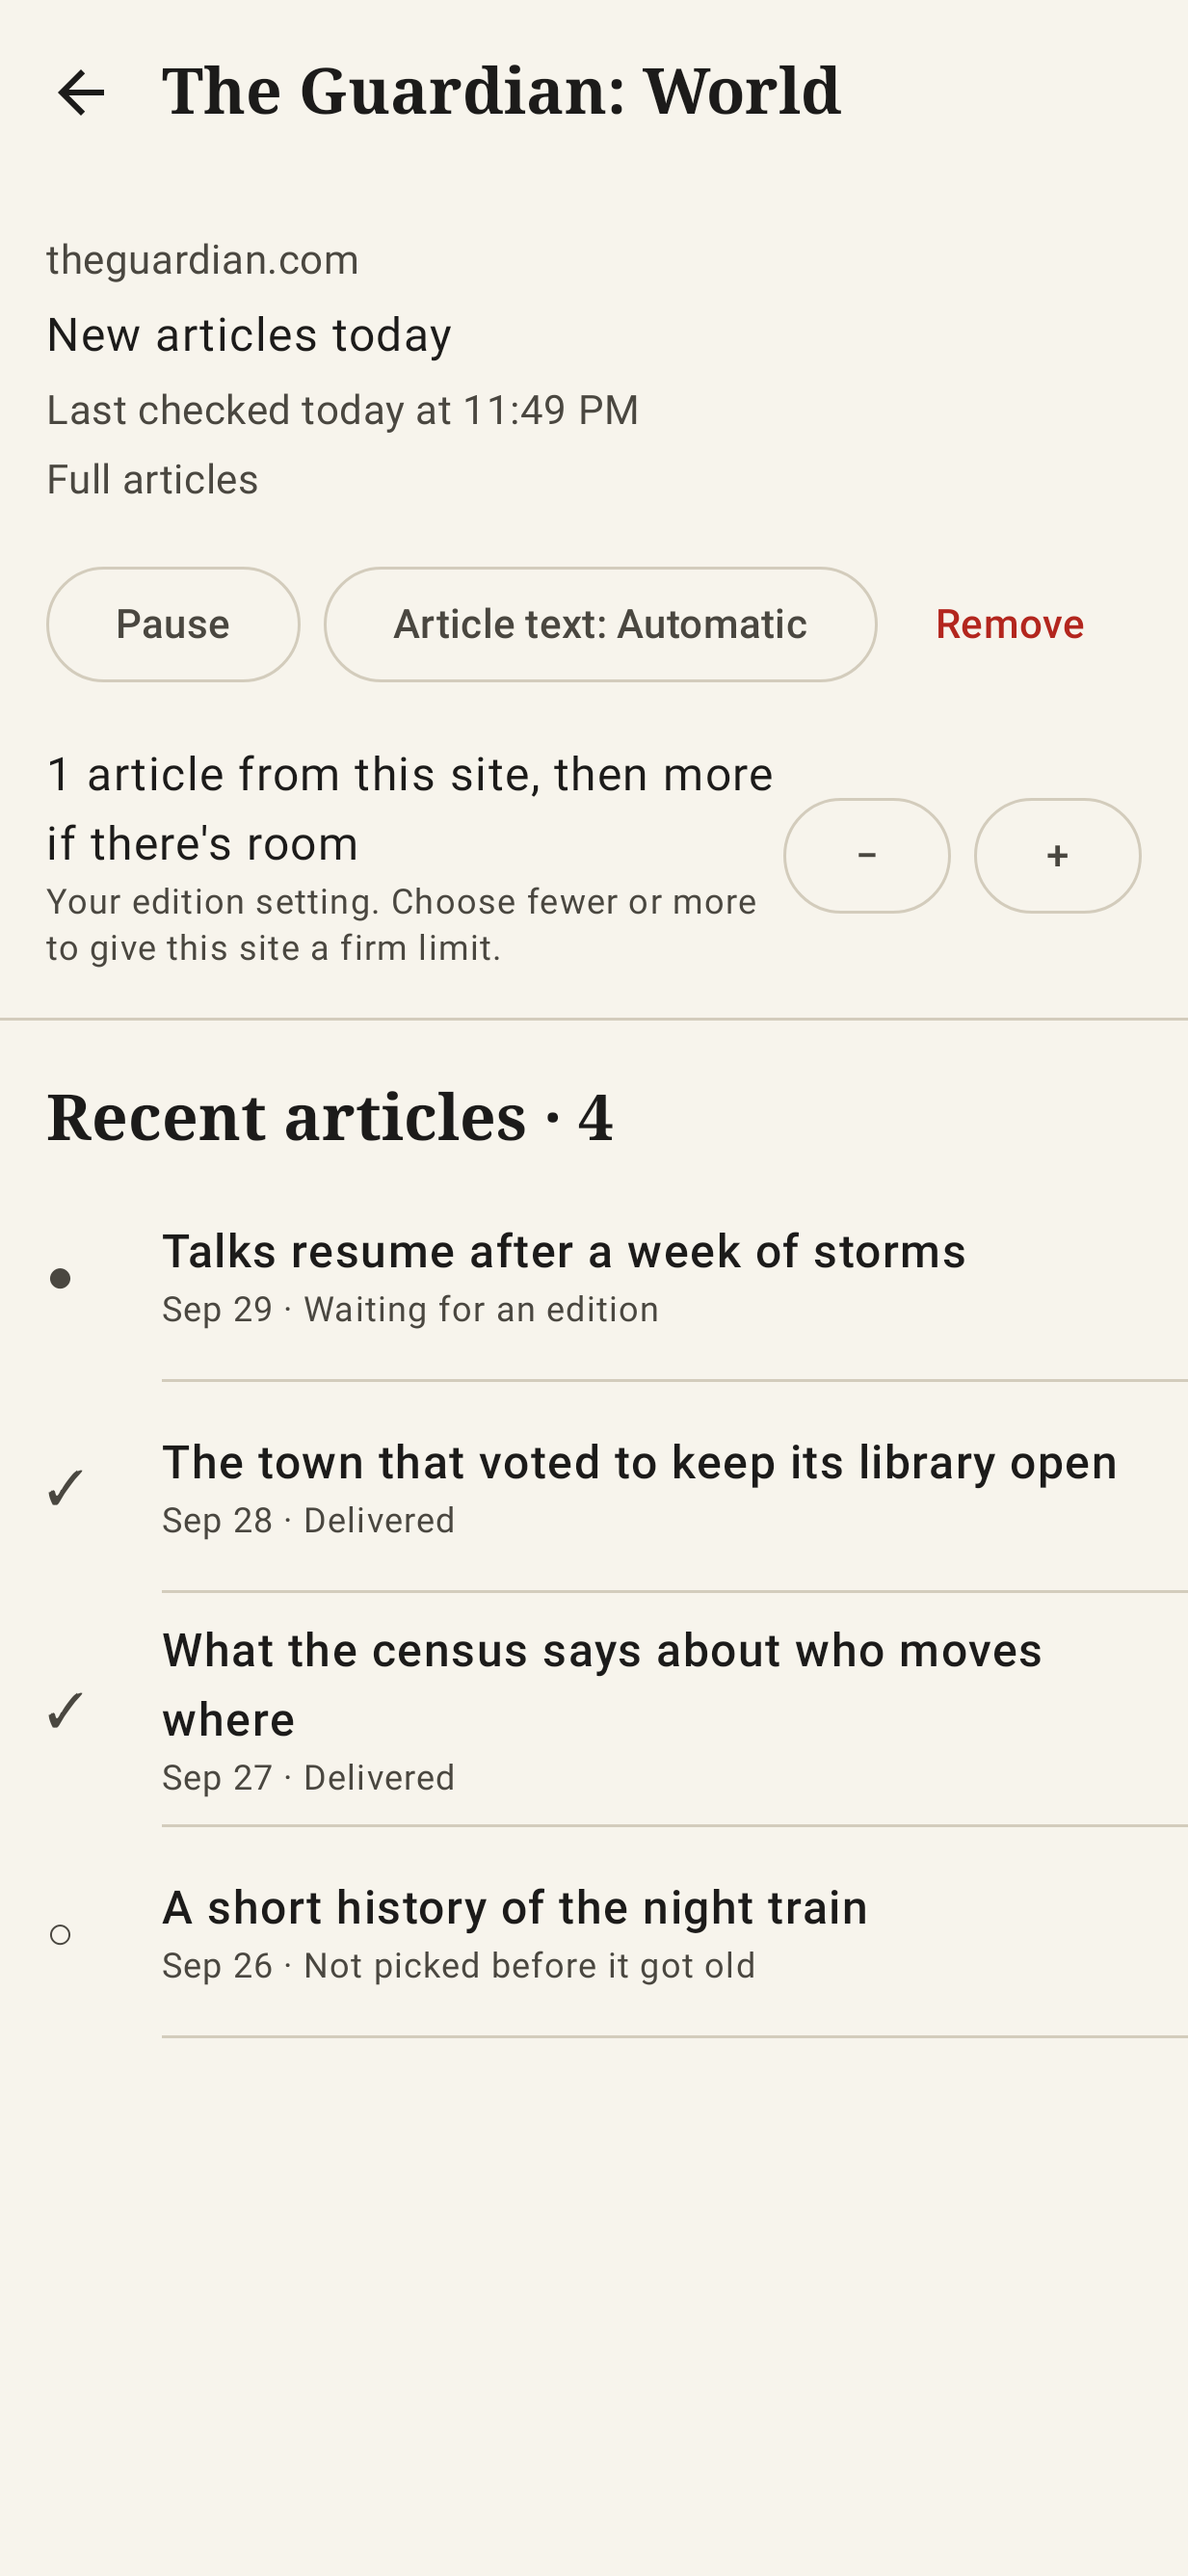
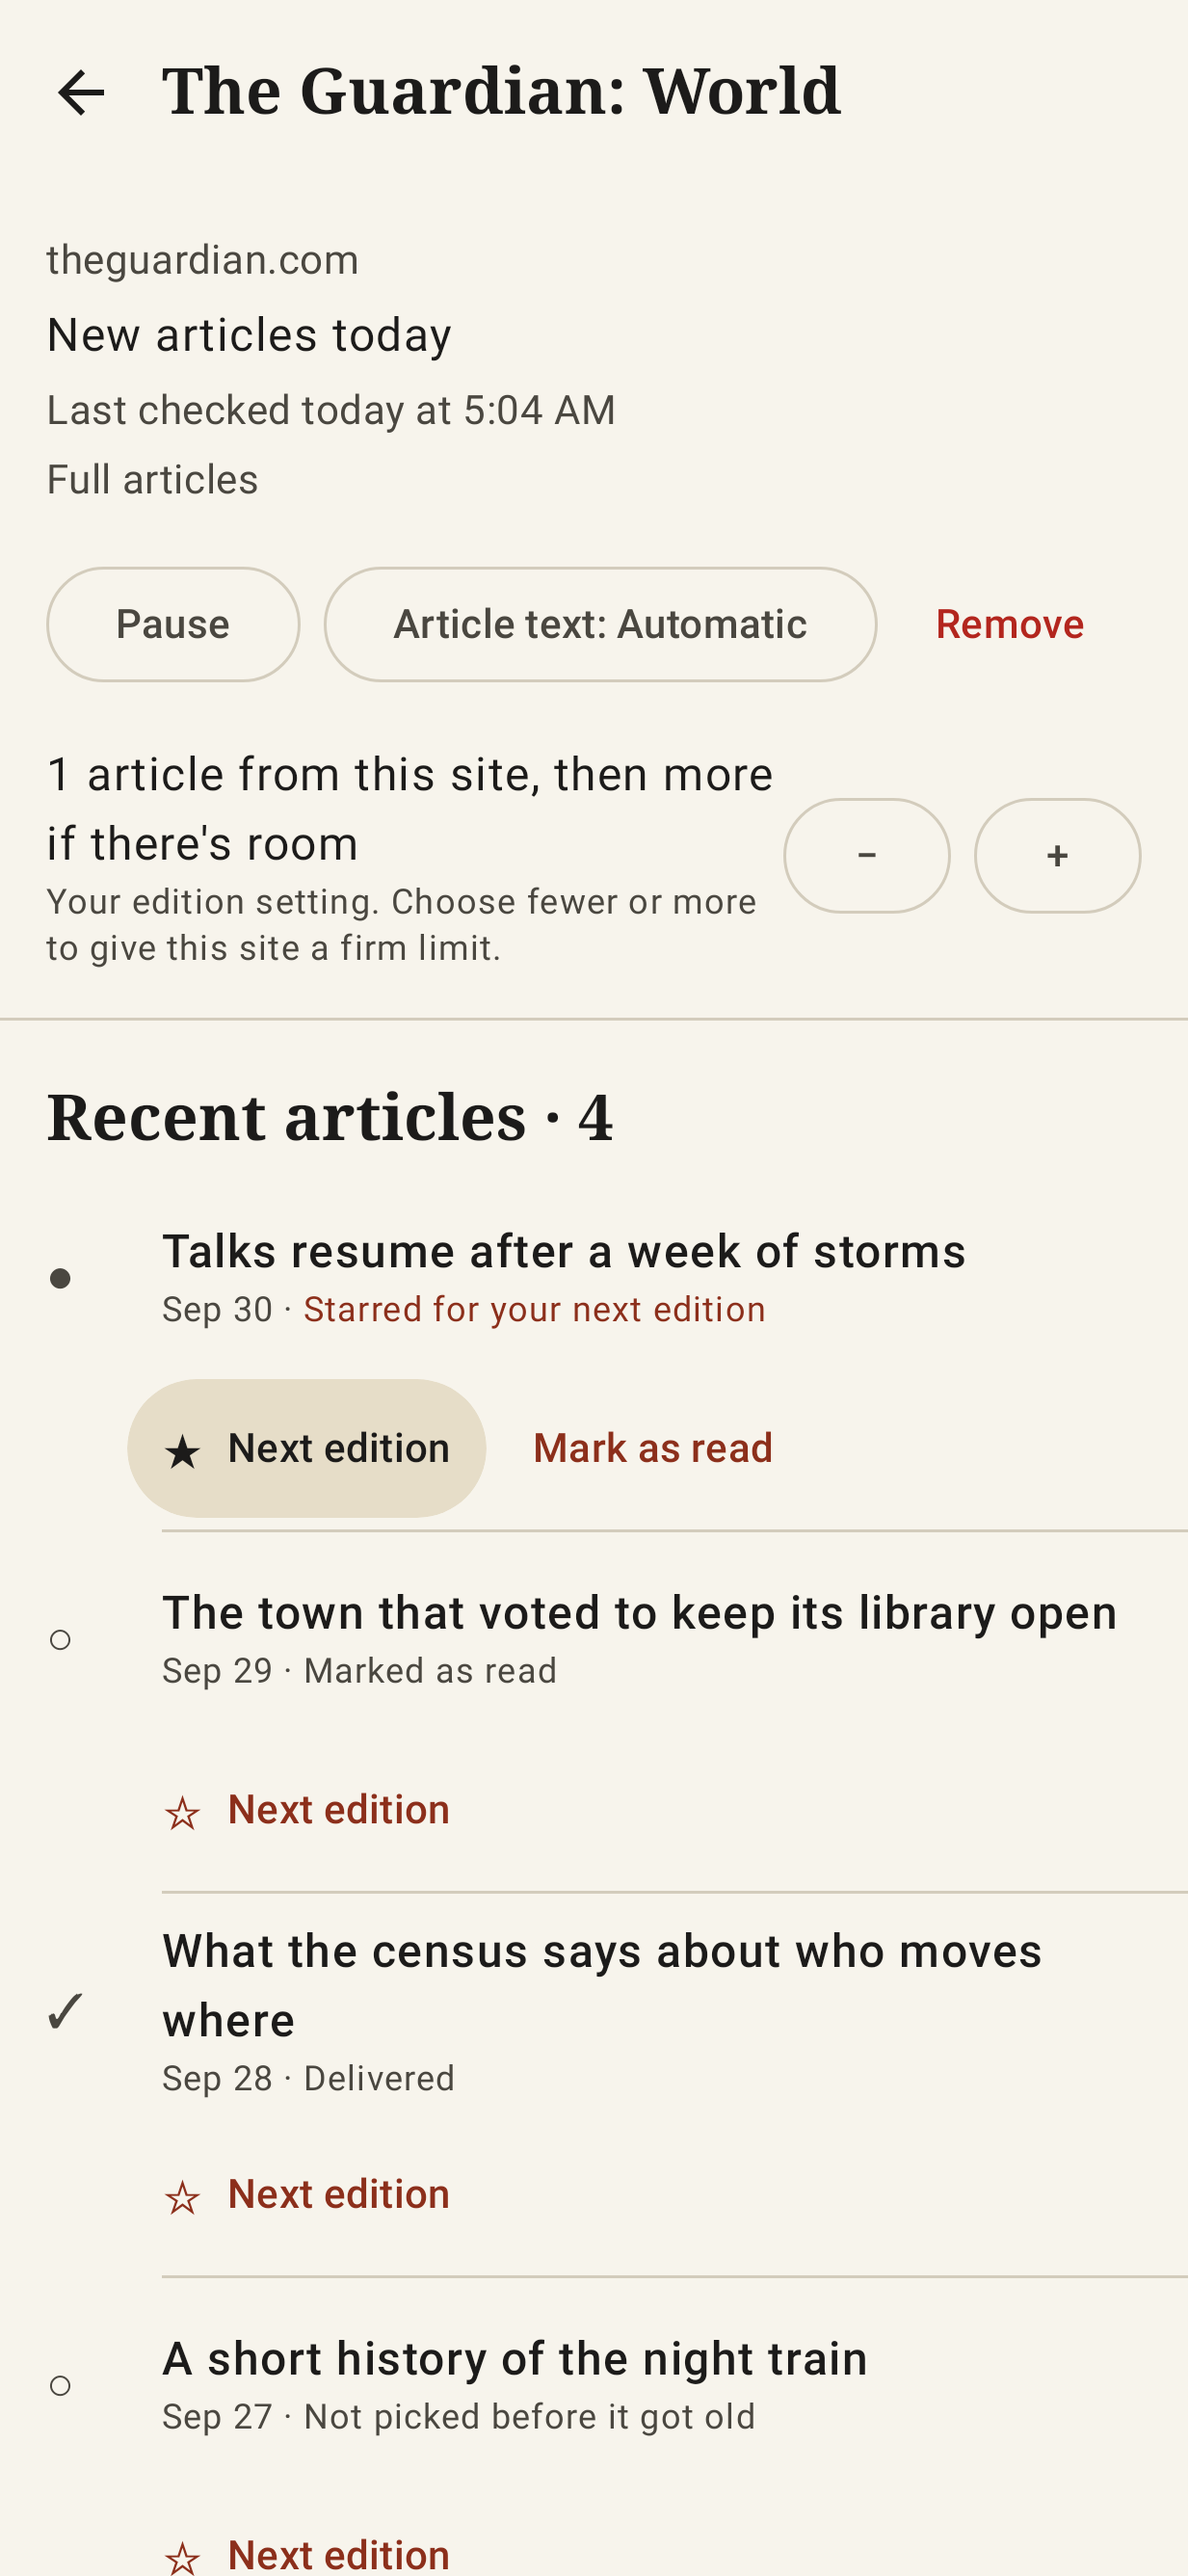
Docs: stars replace bring back; backlog items done; fresh screenshots
Claude-Session: https://claude.ai/code/session_01RUhkY7zYUNXC6E8xx5UjgD

diff --git a/docs/BACKLOG.md b/docs/BACKLOG.md
@@ -17,19 +17,6 @@ Grouped by part of the app. The tag says where each item came from: *device* (yo
 ### Sources and fetching
 - [ ] Paywalled and summary-only sites: warn when a site is added; keep stubs from eating the budget; drop metered sites from starter packs *(personas)*
 - [ ] "No feed found" in onboarding: offer the reading list there too (done in Sources) *(personas)*
-- [ ] Article rows in a source's list *(device; decided with you)*. Before building, a few design
-  passes: mockups of the row and the edition screen, checked for e-ink, TalkBack and large fonts, and your OK:
-  - tap opens the original in the browser and changes nothing;
-  - `☆` puts the article in the next paper; tap again to unstar;
-  - "Mark as read" (for read or not interested): never in a paper, marked read in tt-rss for
-    tt-rss sources, with a "Marked as read · Undo" message. Not a ✓ icon: the row's status column
-    already uses ✓ for delivered;
-  - two labelled 48dp buttons, no menu; the star is a shape, so it reads on e-ink.
-- [ ] Stars in the planner: starred articles first, taking turns across sources, then the rest.
-  A star uses up one of its source's slots and takes that slot before unstarred articles; held-back
-  stars come before held-back unstarred ones; a star beyond a source's own hard cap waits. The paper
-  stays capped: stars that don't fit wait for the next one, and Today says how many are waiting.
-  The star shows on the edition screen too
 - [ ] Page cleanup's furniture patterns ("Recommended stories", "Subscribe to", "Read more:") are English only, so "Lire aussi", "Mehr zum Thema" and "Lee también" slip into French, German and Spanish articles. Key them by the article's language *(live)*
 - [ ] Webtoons: episodes are one long strip of dozens of lazy images (`data-url`), beyond the 20-image cap, and its mobile site hides the feed. Support strips properly *(device)*
 - [ ] Webcomic title text (xkcd's hover text) is dropped; show it as a caption *(device)*
@@ -180,6 +167,8 @@ A first step, if wanted: move `:core` to Kotlin Multiplatform, which also keeps 
 
 ## Done
 
+- [x] Stars: `☆ Next edition` on a source's articles and on delivered editions puts an article first in the next edition (it replaces bring back); the planner takes stars first, taking turns across sources, within each source's slots and the budget; Today says how many are waiting
+- [x] Article rows in a source's list: tap opens the original; "Mark as read" with Undo, marked read in tt-rss at the next sync
 - [x] Saved links in onboarding: import a Pocket or Instapaper export there, and start with saved links alone
 - [x] "No feed found" in Sources offers to save the page to the reading list instead of a dead end
 - [x] Change the e-reader in Settings after onboarding (it decides Send or Open, and the tips)

diff --git a/README.md b/README.md
@@ -41,14 +41,16 @@ who'd rather not set up Python, a server and a scheduler.
   Dropbox for a Kobo, email), a synced folder (KOReader), or Open on a
   Boox. Articles are used up only once the edition is delivered: saved to
   your folder, sent through an app you pick, or opened on a Boox.
-- **Didn't finish?** Bring articles back into tomorrow's edition.
+- **Star what you want next.** Star an article in a source's list, or one
+  from an edition you didn't finish, and it goes first into the next
+  edition. Mark the rest as read (for tt-rss too).
 - **Take notes.** Export a Markdown notes file per edition, with a citation
   and reflection prompts for each article, for Obsidian, Logseq or any notes app.
 - **Calm by design.** No unread counts, no infinite timeline, no
   animations to smear on an e-ink screen.
 
 <p>
-  <img src="docs/screenshots/05b-edition-detail.png" width="200" alt="Edition contents with bring back">
+  <img src="docs/screenshots/05b-edition-detail.png" width="200" alt="Edition contents with a star to bring an article back">
   <img src="docs/screenshots/06-sources.png" width="200" alt="Sources">
   <img src="docs/screenshots/06b-source-detail.png" width="200" alt="One source's health and recent articles">
   <img src="docs/screenshots/07-settings.png" width="200" alt="Settings">
